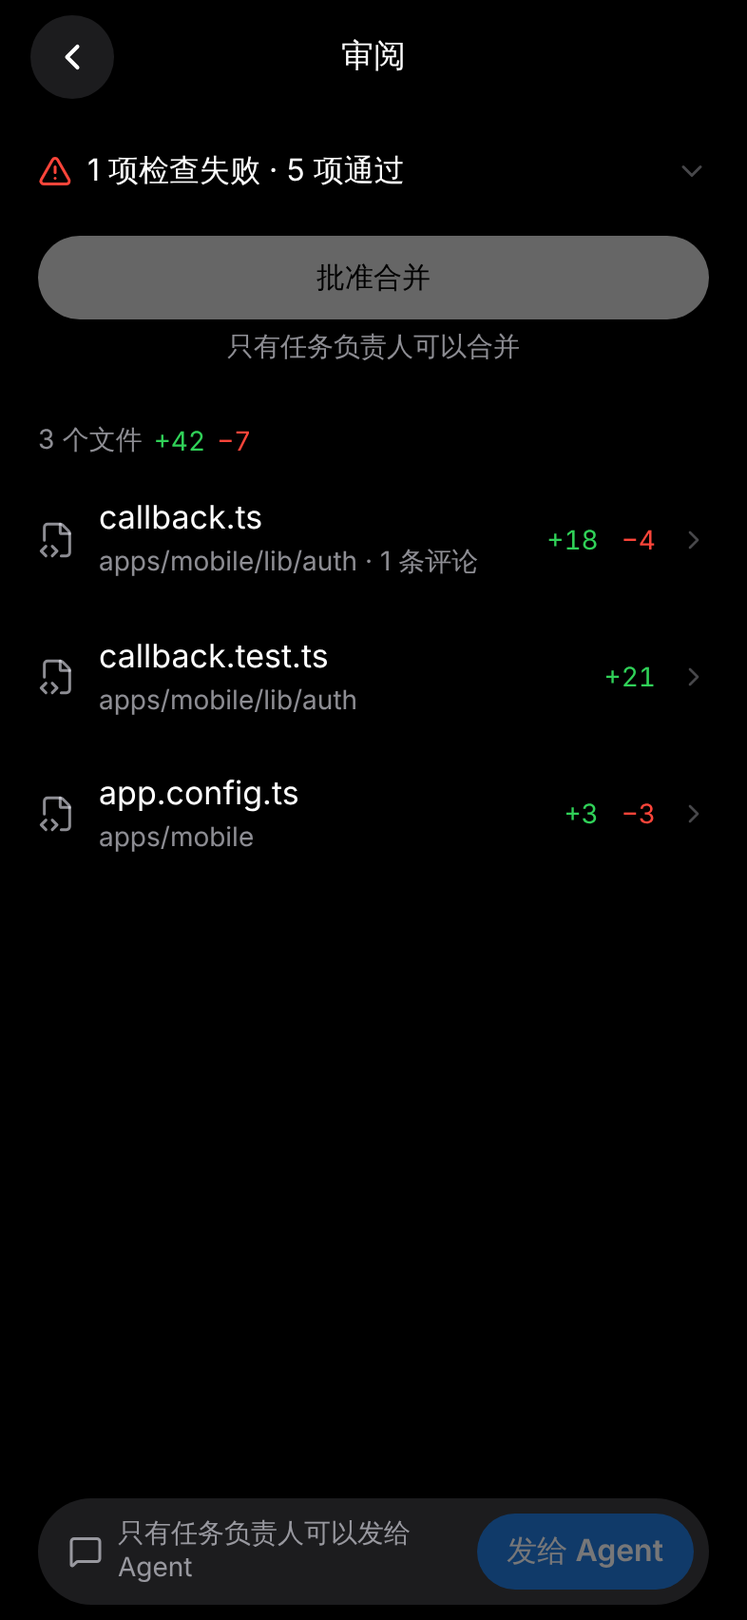
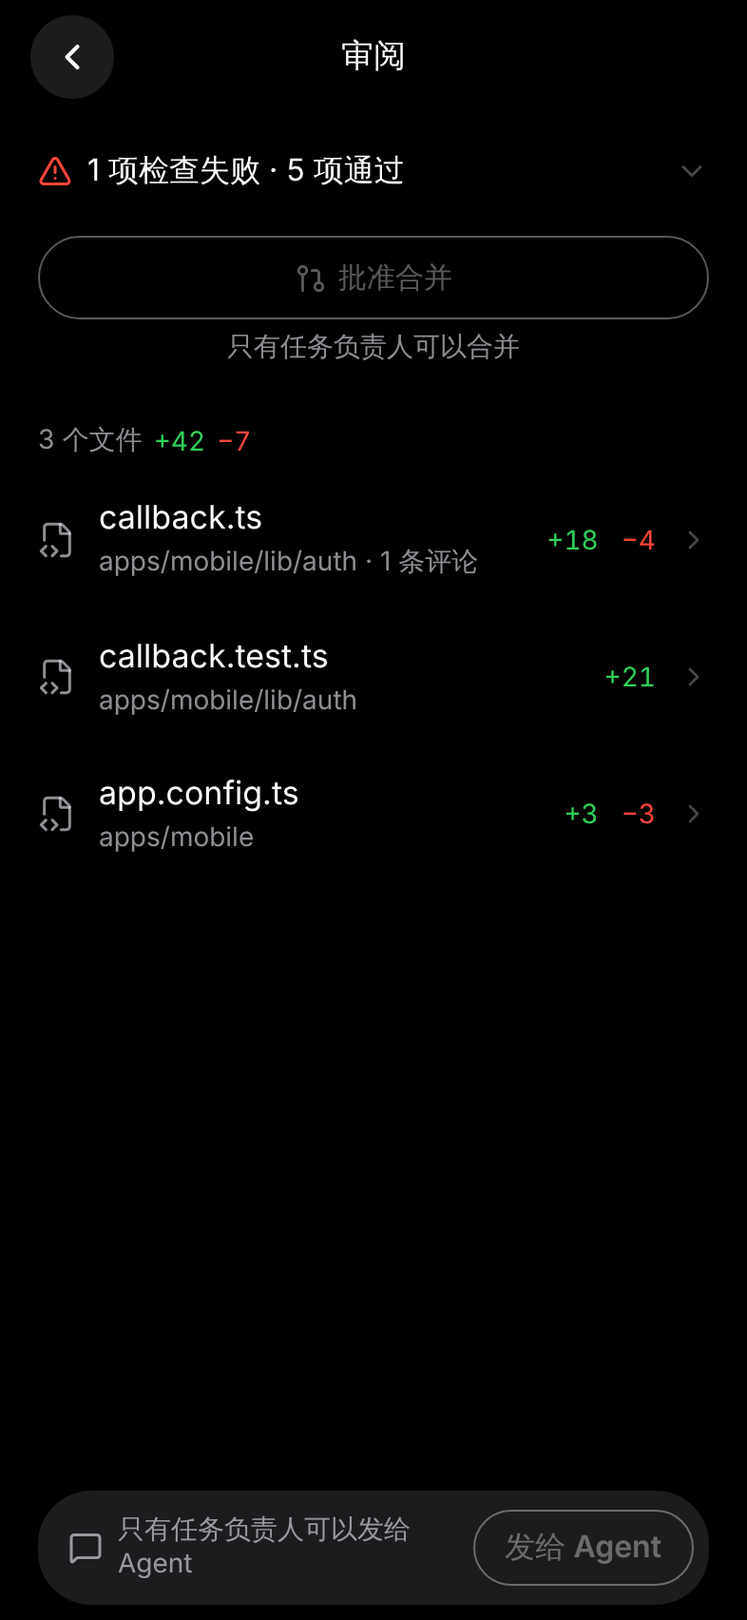
Mobile review: coordinator review fixes, root typecheck
- Disabled 批准合并 and 发给 Agent are an ink outline at reduced opacity,
  never a grey fill; 批准合并 carries the PR icon (CardButton hollow, icon).
- Form sheets (第 N 行, 待发送, 修改意见) have one dismiss: no back button
  beside ✕/✓ (NavBar sheet).
- The floating bar keeps 「写修改意见…」 in both states, with
  「N 条评论 · 失败检查 ›」 above it opening the batch; R2b 修改意见 is its
  own sheet.
- A too-large file's 「改动太大，点开加载」 has its own line.
- The chat card's summary row uses the short form and no longer wraps.
- lib/types.ts imports the review type by relative path, so the root
  typecheck resolves it.
- New shots: R2b note, the pending batch, the bar with a note, chat card.

Claude-Session: https://claude.ai/code/session_01XDndLScfAwEtstMEvukXBZ

Changed region(s): [[0.0305, 0.1244, 0.9466, 0.2177], [0.0916, 0.902, 0.9466, 0.9953]]

diff --git a/apps/mobile/features/review/components/review-bar.tsx b/apps/mobile/features/review/components/review-bar.tsx
@@ -1,32 +1,43 @@
 import { Pressable, StyleSheet, View } from 'react-native'
 import { useSafeAreaInsets } from 'react-native-safe-area-context'
-import { MessageSquare } from 'lucide-react-native'
+import { ChevronRight, MessageSquare } from 'lucide-react-native'
 import { Spinner } from '@/components/icons'
 import { Text } from '@/components/Text'
 import { colors, LIST_INSET, lift } from '@/lib/theme'
 
 /**
- * The floating batch bar on R2 and R3: 「2 条评论 · ios-unit 失败」 (or 写修改意见… when nothing is in the batch) and
- * 发给 Agent in the accent colour, the one submit (decisions/2026-11-08-1230 4). The words open the batch to edit it and
- * write a note. A teammate sees why it is off.
+ * The floating batch bar on R2 and R3 (decisions/2026-11-08-1230 4). With something in the batch, 「2 条评论 · ios-unit
+ * 失败 ›」 sits on top and opens the pending batch; the row below always keeps 「写修改意见…」 (or the note written so
+ * far), which opens R2b, and 发给 Agent in the accent colour, the one submit. A teammate sees why it is off. Disabled,
+ * 发给 Agent is an outline at reduced opacity like 批准合并, never a grey fill.
  */
-export function ReviewBar({ line, onOpen, onSend, canSend, blocked, busy }: {
-  line: string | null; onOpen: () => void; onSend: () => void; canSend: boolean; blocked?: string; busy?: boolean
+export function ReviewBar({ line, note, onOpenBatch, onOpenNote, onSend, canSend, blocked, busy }: {
+  line: string | null; note?: string; onOpenBatch: () => void; onOpenNote: () => void; onSend: () => void; canSend: boolean; blocked?: string; busy?: boolean
 }) {
   const insets = useSafeAreaInsets()
+  const off = !canSend || Boolean(busy)
+  const written = note?.trim()
   return (
     <View pointerEvents="box-none" style={[styles.wrap, { bottom: insets.bottom + 8 }]}>
       <View style={styles.bar}>
-        <Pressable accessibilityRole="button" accessibilityLabel={line ? `待发送：${line}` : '写修改意见'} onPress={onOpen} disabled={Boolean(blocked)}
-          style={({ pressed }) => [styles.words, pressed && { opacity: 0.6 }]}>
-          <MessageSquare size={18} color={colors.secondary} strokeWidth={2} />
-          <Text style={[styles.line, (!line || blocked) && { color: colors.secondary }, blocked && styles.blocked]} numberOfLines={blocked ? 2 : 1}>{blocked ?? line ?? '写修改意见…'}</Text>
-        </Pressable>
-        <Pressable accessibilityRole="button" accessibilityLabel="发给 Agent" accessibilityState={{ disabled: !canSend || busy, busy }} disabled={!canSend || busy} onPress={onSend}
-          style={({ pressed }) => [styles.send, (!canSend || busy) && { opacity: 0.4 }, pressed && { opacity: 0.8 }]}>
-          {busy ? <Spinner size={14} color={colors.onAccent} /> : null}
-          <Text style={styles.sendText}>发给 Agent</Text>
-        </Pressable>
+        {line && !blocked ? (
+          <Pressable accessibilityRole="button" accessibilityLabel={`待发送：${line}`} onPress={onOpenBatch} style={({ pressed }) => [styles.batch, pressed && { opacity: 0.6 }]}>
+            <Text style={styles.batchText} numberOfLines={1}>{line}</Text>
+            <ChevronRight size={16} color={colors.tertiary} strokeWidth={2} />
+          </Pressable>
+        ) : null}
+        <View style={styles.row}>
+          <Pressable accessibilityRole="button" accessibilityLabel={blocked || (written ? `修改意见：${written}` : '写修改意见')} onPress={onOpenNote} disabled={Boolean(blocked)}
+            style={({ pressed }) => [styles.words, pressed && { opacity: 0.6 }]}>
+            <MessageSquare size={18} color={colors.secondary} strokeWidth={2} />
+            <Text style={[styles.note, !written && { color: colors.secondary }, blocked && styles.blocked]} numberOfLines={blocked ? 2 : 1}>{blocked || written || '写修改意见…'}</Text>
+          </Pressable>
+          <Pressable accessibilityRole="button" accessibilityLabel="发给 Agent" accessibilityState={{ disabled: off, busy }} disabled={off} onPress={onSend}
+            style={({ pressed }) => [styles.send, off && !busy ? styles.sendOff : null, busy && { opacity: 0.6 }, pressed && { opacity: 0.8 }]}>
+            {busy ? <Spinner size={14} color={colors.onAccent} /> : null}
+            <Text style={[styles.sendText, off && !busy ? { color: colors.ink } : null]}>发给 Agent</Text>
+          </Pressable>
+        </View>
       </View>
     </View>
   )
@@ -34,10 +45,14 @@ export function ReviewBar({ line, onOpen, onSend, canSend, blocked, busy }: {
 
 const styles = StyleSheet.create({
   wrap: { position: 'absolute', left: LIST_INSET, right: LIST_INSET },
-  bar: { flexDirection: 'row', alignItems: 'center', gap: 10, minHeight: 56, paddingLeft: 16, paddingRight: 8, borderRadius: 28, borderCurve: 'continuous', backgroundColor: colors.surface, ...lift },
+  bar: { paddingVertical: 8, paddingLeft: 16, paddingRight: 8, borderRadius: 28, borderCurve: 'continuous', backgroundColor: colors.surface, ...lift },
+  batch: { flexDirection: 'row', alignItems: 'center', gap: 4, minHeight: 36, paddingRight: 8 },
+  batchText: { flex: 1, fontSize: 15, fontWeight: '600', color: colors.text },
+  row: { flexDirection: 'row', alignItems: 'center', gap: 10, minHeight: 44 },
   words: { flex: 1, minWidth: 0, flexDirection: 'row', alignItems: 'center', gap: 8, minHeight: 44 },
-  line: { flex: 1, fontSize: 16, color: colors.text },
+  note: { flex: 1, fontSize: 16, color: colors.text },
   blocked: { fontSize: 14, lineHeight: 18 },
   send: { flexDirection: 'row', alignItems: 'center', gap: 6, height: 40, paddingHorizontal: 16, borderRadius: 20, backgroundColor: colors.accentFill },
+  sendOff: { backgroundColor: 'transparent', borderWidth: 1.5, borderColor: colors.ink, opacity: 0.35 },
   sendText: { fontSize: 16, fontWeight: '600', color: colors.onAccent },
 })

diff --git a/apps/mobile/features/review/screens/review-screen.tsx b/apps/mobile/features/review/screens/review-screen.tsx
@@ -2,7 +2,7 @@ import { useState } from 'react'
 import { Platform, Pressable, RefreshControl, ScrollView, StyleSheet, View } from 'react-native'
 import { useLocalSearchParams, useRouter } from 'expo-router'
 import { useSafeAreaInsets } from 'react-native-safe-area-context'
-import { ChevronDown, ChevronRight, ChevronUp, CircleCheck, CircleDot, FileCode2, GitMerge, Paperclip, TriangleAlert } from 'lucide-react-native'
+import { ChevronDown, ChevronRight, ChevronUp, CircleCheck, CircleDot, FileCode2, GitMerge, GitPullRequest, Paperclip, TriangleAlert } from 'lucide-react-native'
 import { CardButton } from '@/components/cards'
 import { Spinner } from '@/components/icons'
 import { NavBar, underBar } from '@/components/NavBar'
@@ -15,7 +15,7 @@ import { colors, LIST_INSET, ROW_SURFACE_INSET, SPACE } from '@/lib/theme'
 import { ReviewBar } from '../components/review-bar'
 import { useReview } from '../components/use-review'
 import { CANNOT_MERGE, CANNOT_SEND, checksLine, denial, sourceLine, toggleCheck, type ReviewCheck, type ReviewRead } from '../model/review'
-import { fileHref } from '../model/routes'
+import { batchHref, fileHref, noteHref } from '../model/routes'
 
 const MONO = Platform.select({ ios: 'Menlo', default: 'monospace' })
 
@@ -51,8 +51,8 @@ export function ReviewScreen() {
           </>
         ) : null}
       </ScrollView>
-      {review && !r.merged ? <ReviewBar line={r.line} canSend={r.canSend} busy={r.sending} blocked={blocked}
-        onOpen={() => router.push({ pathname: '/task/[id]/batch', params: { id } })} onSend={() => void r.send()} /> : null}
+      {review && !r.merged ? <ReviewBar line={r.line} note={r.batch.note} canSend={r.canSend} busy={r.sending} blocked={blocked}
+        onOpenBatch={() => router.push(batchHref(id))} onOpenNote={() => router.push(noteHref(id))} onSend={() => void r.send()} /> : null}
     </View>
   )
 }
@@ -102,7 +102,8 @@ function Top({ review, checks: list, open, onToggle, attached, onAttach, merged,
         <View style={styles.state}><CircleDot size={18} color={colors.orange} strokeWidth={2} /><Text style={styles.stateText}>运行中 · 还没开 PR</Text>{review.diff.live ? <Text style={styles.live}>实时</Text> : null}</View>
       ) : (
         <View style={{ gap: 6 }}>
-          <CardButton label="批准合并" primary busy={merging} disabled={!permissions.canMerge} onPress={onMerge} />
+          <CardButton label="批准合并" primary hollow busy={merging} disabled={!permissions.canMerge} onPress={onMerge}
+            icon={<GitPullRequest size={17} color={permissions.canMerge ? colors.onInk : colors.ink} strokeWidth={2} />} />
           {!permissions.canMerge ? <Text style={styles.reason}>{denial(permissions.reasons.merge, CANNOT_MERGE)}</Text> : null}
         </View>
       )}
@@ -125,14 +126,15 @@ function Files({ review, onOpen }: { review: ReviewRead; onOpen: (path: string) 
         const slash = file.path.lastIndexOf('/')
         const name = file.path.slice(slash + 1)
         const folder = slash > 0 ? file.path.slice(0, slash) : ''
-        const meta = [folder, file.comments ? `${file.comments} 条评论` : null, file.tooLarge ? '改动太大，点开加载' : null].filter(Boolean).join(' · ')
+        const meta = [folder, file.comments ? `${file.comments} 条评论` : null].filter(Boolean).join(' · ')
         return (
-          <Pressable key={file.path} accessibilityRole="button" accessibilityLabel={`${file.path}，+${file.additions} −${file.deletions}`} onPress={() => onOpen(file.path)}
+          <Pressable key={file.path} accessibilityRole="button" accessibilityLabel={`${file.path}，+${file.additions} −${file.deletions}${file.tooLarge ? '，改动太大，点开加载' : ''}`} onPress={() => onOpen(file.path)}
             style={({ pressed }) => [styles.file, pressed && { backgroundColor: colors.pressed }]}>
             <FileCode2 size={20} color={colors.secondary} strokeWidth={1.8} />
             <View style={styles.fileText}>
               <Text style={styles.fileName} numberOfLines={1}>{name}</Text>
               {meta ? <Text style={styles.fileMeta} numberOfLines={1}>{meta}</Text> : null}
+              {file.tooLarge ? <Text style={styles.fileMeta}>改动太大，点开加载</Text> : null}
             </View>
             {file.additions ? <Text style={[styles.count, { color: colors.success }]}>+{file.additions}</Text> : null}
             {file.deletions ? <Text style={[styles.count, { color: colors.danger }]}>−{file.deletions}</Text> : null}

diff --git a/apps/mobile/features/review/screens/batch-sheet.tsx b/apps/mobile/features/review/screens/batch-sheet.tsx
@@ -1,17 +1,17 @@
-import { Pressable, ScrollView, StyleSheet, TextInput, View } from 'react-native'
+import { Pressable, ScrollView, StyleSheet, View } from 'react-native'
 import { useLocalSearchParams, useRouter } from 'expo-router'
 import { Check, Paperclip, Trash2 } from 'lucide-react-native'
 import { NavBar } from '@/components/NavBar'
 import { Text } from '@/components/Text'
 import { tap } from '@/lib/haptics'
-import { colors, font, LIST_INSET } from '@/lib/theme'
+import { colors, LIST_INSET } from '@/lib/theme'
 import { useBatch } from '../model/batch-store'
 import { useReview } from '../components/use-review'
 import { removeComment, toggleCheck } from '../model/review'
 
 /**
- * The pending batch, from the floating bar's words: each line comment (tap to edit in R3b, or delete), the attached
- * failing checks, and the overall note 发给 Agent sends with them. The bar's 发给 Agent stays the one submit.
+ * The pending batch, from the floating bar's 「N 条评论 · 失败检查 ›」: each line comment (tap to edit in R3b, or
+ * delete) and the attached failing checks. The note is R2b's (note-sheet.tsx); the bar's 发给 Agent stays the one submit.
  */
 export function BatchSheet() {
   const { id } = useLocalSearchParams<{ id: string }>()
@@ -20,10 +20,8 @@ export function BatchSheet() {
   const checks = useReview(id).checks
   return (
     <>
-      <NavBar fade={false} title="待发送" right={{ icon: 'checkmark', label: '完成', web: <Check size={20} color={colors.ink} />, onPress: () => router.back() }} />
+      <NavBar sheet fade={false} title="待发送" right={{ icon: 'checkmark', label: '完成', web: <Check size={20} color={colors.ink} />, onPress: () => router.back() }} />
       <ScrollView style={styles.screen} keyboardShouldPersistTaps="handled" contentContainerStyle={styles.body}>
-        <TextInput value={batch.note} onChangeText={note => setBatch(current => ({ ...current, note }))} placeholder="写修改意见…" placeholderTextColor={colors.secondary}
-          multiline accessibilityLabel="修改意见" style={styles.input} />
         {batch.comments.map(comment => (
           <View key={comment.id} style={styles.row}>
             <Pressable accessibilityRole="button" accessibilityLabel={`编辑 ${comment.path} 第 ${comment.line} 行的评论`} style={styles.rowText}
@@ -53,7 +51,6 @@ export function BatchSheet() {
 const styles = StyleSheet.create({
   screen: { flex: 1, backgroundColor: colors.page },
   body: { paddingHorizontal: LIST_INSET, paddingVertical: 12, gap: 12 },
-  input: { minHeight: 96, padding: 14, borderRadius: 14, borderCurve: 'continuous', backgroundColor: colors.bubble, fontFamily: font, fontSize: 17, lineHeight: 23, color: colors.text, textAlignVertical: 'top' },
   row: { flexDirection: 'row', alignItems: 'center', gap: 12, minHeight: 56 },
   rowText: { flex: 1, gap: 4 },
   where: { fontSize: 13, color: colors.secondary },

diff --git a/apps/mobile/components/cards.tsx b/apps/mobile/components/cards.tsx
@@ -16,15 +16,19 @@ export function ChatCard({ children, highlighted, style }: { children: ReactNode
 /**
  * A card button: primary is filled ink, secondary is grey with no stroke
  * (R-31), both pills. `busy` shows a spinner in place of nothing else changing.
+ * `hollow` draws a disabled primary as its ink outline at reduced opacity, not a
+ * grey fill (the review's 批准合并, #1738); `icon` sits before the label.
  */
-export function CardButton({ label, onPress, primary, disabled, busy, destructive }: {
-  label: string; onPress: () => void; primary?: boolean; disabled?: boolean; busy?: boolean; destructive?: boolean
+export function CardButton({ label, onPress, primary, disabled, busy, destructive, hollow, icon }: {
+  label: string; onPress: () => void; primary?: boolean; disabled?: boolean; busy?: boolean; destructive?: boolean; hollow?: boolean; icon?: ReactNode
 }) {
+  const outline = Boolean(hollow && primary && disabled)
   return (
     <Pressable accessibilityRole="button" accessibilityState={{ disabled: Boolean(disabled || busy), busy: Boolean(busy) }} aria-disabled={Platform.OS === 'web' ? Boolean(disabled || busy) : undefined} aria-busy={Platform.OS === 'web' ? Boolean(busy) : undefined} disabled={disabled || busy} onPress={onPress}
-      style={({ pressed }) => [styles.button, primary ? styles.primary : styles.secondary, pressed && { opacity: 0.8 }, disabled && { opacity: 0.4 }]}>
+      style={({ pressed }) => [styles.button, outline ? styles.outline : primary ? styles.primary : styles.secondary, pressed && { opacity: 0.8 }, disabled && { opacity: outline ? 0.35 : 0.4 }]}>
       {busy ? <Spinner size={14} color={primary ? colors.onInk : colors.secondary} /> : null}
-      <Text style={[styles.buttonText, primary ? { color: colors.onInk } : destructive ? { color: colors.danger } : null]}>{label}</Text>
+      {icon && !busy ? icon : null}
+      <Text style={[styles.buttonText, outline ? { color: colors.ink } : primary ? { color: colors.onInk } : destructive ? { color: colors.danger } : null]}>{label}</Text>
     </Pressable>
   )
 }
@@ -52,6 +56,7 @@ const styles = StyleSheet.create({
   highlighted: { shadowColor: colors.accent, shadowOpacity: 0.35, shadowRadius: 14 },
   button: { flexDirection: 'row', alignItems: 'center', justifyContent: 'center', gap: 6, minHeight: 44, paddingHorizontal: 18, paddingVertical: 10, borderRadius: 22 },
   primary: { backgroundColor: colors.ink },
+  outline: { borderWidth: 1.5, borderColor: colors.ink },
   secondary: { backgroundColor: colors.bubble },
   buttonText: { fontSize: 15, fontWeight: '600' },
   field: { flexDirection: 'row', gap: 12 },

diff --git a/apps/mobile/features/review/screens/note-sheet.tsx b/apps/mobile/features/review/screens/note-sheet.tsx
@@ -1,0 +1,31 @@
+import { ScrollView, StyleSheet, TextInput } from 'react-native'
+import { useLocalSearchParams, useRouter } from 'expo-router'
+import { Check } from 'lucide-react-native'
+import { NavBar } from '@/components/NavBar'
+import { colors, font, LIST_INSET } from '@/lib/theme'
+import { useBatch } from '../model/batch-store'
+
+/**
+ * R2b, 修改意见: the overall note 发给 Agent sends with the line comments, from the floating bar's 「写修改意见…」.
+ * It is kept with the batch as it is typed; ✓ or a swipe down closes the sheet.
+ */
+export function NoteSheet() {
+  const { id } = useLocalSearchParams<{ id: string }>()
+  const router = useRouter()
+  const [batch, setBatch] = useBatch(id)
+  return (
+    <>
+      <NavBar sheet fade={false} title="修改意见" right={{ icon: 'checkmark', label: '完成', web: <Check size={20} color={colors.ink} />, onPress: () => router.back() }} />
+      <ScrollView style={styles.screen} keyboardShouldPersistTaps="handled" contentContainerStyle={styles.body}>
+        <TextInput value={batch.note} onChangeText={note => setBatch(current => ({ ...current, note }))} placeholder="写修改意见…" placeholderTextColor={colors.secondary}
+          multiline autoFocus accessibilityLabel="修改意见" style={styles.input} />
+      </ScrollView>
+    </>
+  )
+}
+
+const styles = StyleSheet.create({
+  screen: { flex: 1, backgroundColor: colors.page },
+  body: { paddingHorizontal: LIST_INSET, paddingVertical: 12 },
+  input: { minHeight: 160, padding: 14, borderRadius: 14, borderCurve: 'continuous', backgroundColor: colors.bubble, fontFamily: font, fontSize: 17, lineHeight: 23, color: colors.text, textAlignVertical: 'top' },
+})

diff --git a/apps/mobile/components/NavBar.tsx b/apps/mobile/components/NavBar.tsx
@@ -74,7 +74,7 @@ const webItem = (item: BarItem) => 'view' in item
  * material or hairline (Comma, Alex 2026-11-08): content fades out under the top
  * edge, by the system's soft scroll edge on iOS 26 and `TopFade` below it.
  */
-export function NavBar({ title, titleView, left, right, back, large, topTitle, search, background = colors.page, fade = true }: {
+export function NavBar({ title, titleView, left, right, back, large, topTitle, search, background = colors.page, fade = true, sheet }: {
   title?: string
   /** A tab's root (Bot, 任务, 建议, 设置, 搜索): one title, the system's, centred in the bar's row; the buttons grouped
    * on the right; nothing on the left (Alex 2026-11-08, after 「Bot」 showed twice). */
@@ -89,6 +89,8 @@ export function NavBar({ title, titleView, left, right, back, large, topTitle, s
   background?: string
   /** False under an opaque header (a form sheet's), where nothing scrolls beneath it. */
   fade?: boolean
+  /** A form sheet: closed by its own ✕ or ✓ and by swiping down, so no back button beside them. */
+  sheet?: boolean
 }) {
   const router = useRouter()
   const pathname = usePathname()
@@ -101,7 +103,7 @@ export function NavBar({ title, titleView, left, right, back, large, topTitle, s
       else router.back()
     })
     // The Web router's history availability is not reactive. Keep an exit on pushed/deep-linked pages.
-    const showBack = Platform.OS === 'web' || back !== undefined || router.canGoBack()
+    const showBack = !sheet && (Platform.OS === 'web' || back !== undefined || router.canGoBack())
     if (topTitle) return (
       <>
         <TopRow title={title ?? ''} right={rights.map(webItem)} />

diff --git a/apps/mobile/features/review/screens/file-screen.tsx b/apps/mobile/features/review/screens/file-screen.tsx
@@ -12,6 +12,7 @@ import { ReviewBar } from '../components/review-bar'
 import { useReview } from '../components/use-review'
 import { CANNOT_SEND, denial, lineNumber, lineSide, parsePatch, type DiffLine, type PendingComment, type ReviewFileRead, type ReviewSentComment } from '../model/review'
 import { filePath } from '../model/review-api'
+import { batchHref, noteHref } from '../model/routes'
 
 const MONO = Platform.select({ ios: 'Menlo', default: 'monospace' })
 
@@ -69,9 +70,9 @@ export function FileScreen() {
         ))}
         {read.data && !hunks.length ? <Text style={styles.empty}>{read.data.file.tooLarge ? '改动太大，没法在手机上显示' : '没有改动'}</Text> : null}
       </ScrollView>
-      {r.review && !r.merged ? <ReviewBar line={r.line} canSend={r.canSend} busy={r.sending}
+      {r.review && !r.merged ? <ReviewBar line={r.line} note={r.batch.note} canSend={r.canSend} busy={r.sending}
         blocked={r.permissions && !r.permissions.canSend ? denial(r.permissions.reasons.send, CANNOT_SEND) : undefined}
-        onOpen={() => router.push({ pathname: '/task/[id]/batch', params: { id } })} onSend={() => void r.send()} /> : null}
+        onOpenBatch={() => router.push(batchHref(id))} onOpenNote={() => router.push(noteHref(id))} onSend={() => void r.send()} /> : null}
     </View>
   )
 }

diff --git a/apps/mobile/features/review/components/review-summary-row.tsx b/apps/mobile/features/review/components/review-summary-row.tsx
@@ -26,7 +26,7 @@ export function ReviewSummaryRow({ summary, onPress, compact, short }: { summary
           <>
             <Text style={styles.dot}>·</Text>
             {p.failed ? <TriangleAlert size={14} color={colors.danger} strokeWidth={2} /> : null}
-            <Text style={[styles.text, p.failed && { color: colors.danger }]} numberOfLines={1}>{p.status}</Text>
+            <Text style={[styles.text, styles.status, p.failed && { color: colors.danger }]} numberOfLines={1}>{p.status}</Text>
           </>
         ) : null}
       </View>
@@ -39,6 +39,7 @@ const styles = StyleSheet.create({
   row: { flexDirection: 'row', alignItems: 'center', gap: 8, minHeight: 44 },
   compact: { minHeight: 36 },
   words: { flex: 1, minWidth: 0, flexDirection: 'row', alignItems: 'center', columnGap: 6, overflow: 'hidden' },
-  text: { fontSize: 15, lineHeight: 20, color: colors.text, fontVariant: ['tabular-nums'] },
+  text: { flexShrink: 0, fontSize: 15, lineHeight: 20, color: colors.text, fontVariant: ['tabular-nums'] },
+  status: { flexShrink: 1, minWidth: 0 },
   dot: { fontSize: 15, lineHeight: 20, color: colors.tertiary },
 })

diff --git a/apps/mobile/lib/types.ts b/apps/mobile/lib/types.ts
@@ -37,7 +37,7 @@ export interface RunSource {
   group?: ThreadGroup
   issue: { id: string; identifier: string | null; number: number | null; title: string
     /** A code task's review summary (#1738, from #1722); absent for a non-code task or an older server. */
-    review?: import('@/features/review/model/review').ReviewSummary | null } | null
+    review?: import('../features/review/model/contract').ReviewSummary | null } | null
   /** 运行信息, on the person's own runs. */
   info?: import('./run-info').RunInfo
 }
@@ -221,7 +221,7 @@ export interface TaskDetail {
     agent: { harness: string; model: string | null } | null
     place: { kind: MachineKind; name: string } | null
     /** A code task's review summary (#1738, from #1722); absent for a non-code task or an older server. */
-    review?: import('@/features/review/model/review').ReviewSummary | null
+    review?: import('../features/review/model/contract').ReviewSummary | null
   }
   activity: TaskActivity[]
   /** The channel its task and run keys arrive on. */

diff --git a/apps/mobile/features/chat/screens/chat-screen.tsx b/apps/mobile/features/chat/screens/chat-screen.tsx
@@ -302,7 +302,7 @@ export function ChatScreen({ botId, name, draft, focus, compose, composerAccesso
               {run.issue && result
                 ? <ThreadCard title={[run.issue.identifier, run.issue.title].filter(Boolean).join(' ')} status={runIcon(run)} onPress={() => open(run)}
                   icon={<AttemptIcon result={result} />}
-                  footer={run.issue.review ? <ReviewSummaryRow compact summary={run.issue.review} onPress={() => router.push(reviewHref(run.issue!.id))} /> : undefined}
+                  footer={run.issue.review ? <ReviewSummaryRow compact short summary={run.issue.review} onPress={() => router.push(reviewHref(run.issue!.id))} /> : undefined}
                   info={[ATTEMPT_WORD[result], run.agentName, shortWhen(item.createdAt)].filter(Boolean).join(' · ')} />
                 : <ThreadCard title={runName(run)} status={runIcon(run)} info={runInfoLine(run.info)} onPress={() => open(run)} />}
             </TimedRow>

diff --git a/apps/mobile/features/review/screens/comment-sheet.tsx b/apps/mobile/features/review/screens/comment-sheet.tsx
@@ -31,7 +31,7 @@ export function CommentSheet() {
   const remove = () => { if (existing) { tap(); setBatch(current => removeComment(current, existing.id)) } router.back() }
   return (
     <>
-      <NavBar fade={false} title={`第 ${params.line} 行`} right={{ icon: 'xmark', label: '关闭', web: <X size={20} color={colors.ink} />, onPress: () => router.back() }} />
+      <NavBar sheet fade={false} title={`第 ${params.line} 行`} right={{ icon: 'xmark', label: '关闭', web: <X size={20} color={colors.ink} />, onPress: () => router.back() }} />
       <ScrollView style={styles.screen} keyboardShouldPersistTaps="handled" contentContainerStyle={styles.body}>
         <Text style={styles.quote} numberOfLines={3}>{params.quote}</Text>
         <TextInput value={body} onChangeText={setBody} placeholder="写评论" placeholderTextColor={colors.secondary} multiline autoFocus

diff --git a/apps/mobile/features/review/model/routes.ts b/apps/mobile/features/review/model/routes.ts
@@ -3,3 +3,6 @@ import type { Href } from 'expo-router'
 /** The review screen (R2) and a file's diff (R3) of a task. */
 export const reviewHref = (taskId: string): Href => ({ pathname: '/task/[id]/review', params: { id: taskId } })
 export const fileHref = (taskId: string, path: string): Href => ({ pathname: '/task/[id]/file', params: { id: taskId, path } })
+/** The review's sheets: the pending batch and R2b's note. */
+export const batchHref = (taskId: string): Href => ({ pathname: '/task/[id]/batch', params: { id: taskId } })
+export const noteHref = (taskId: string): Href => ({ pathname: '/task/[id]/note', params: { id: taskId } })
